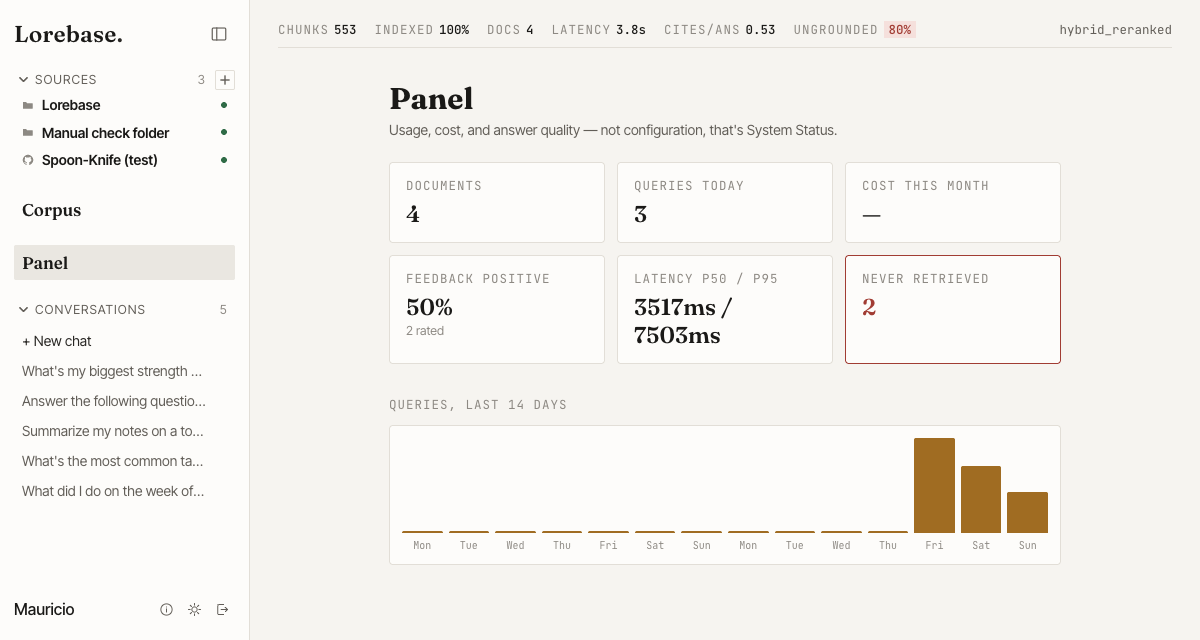
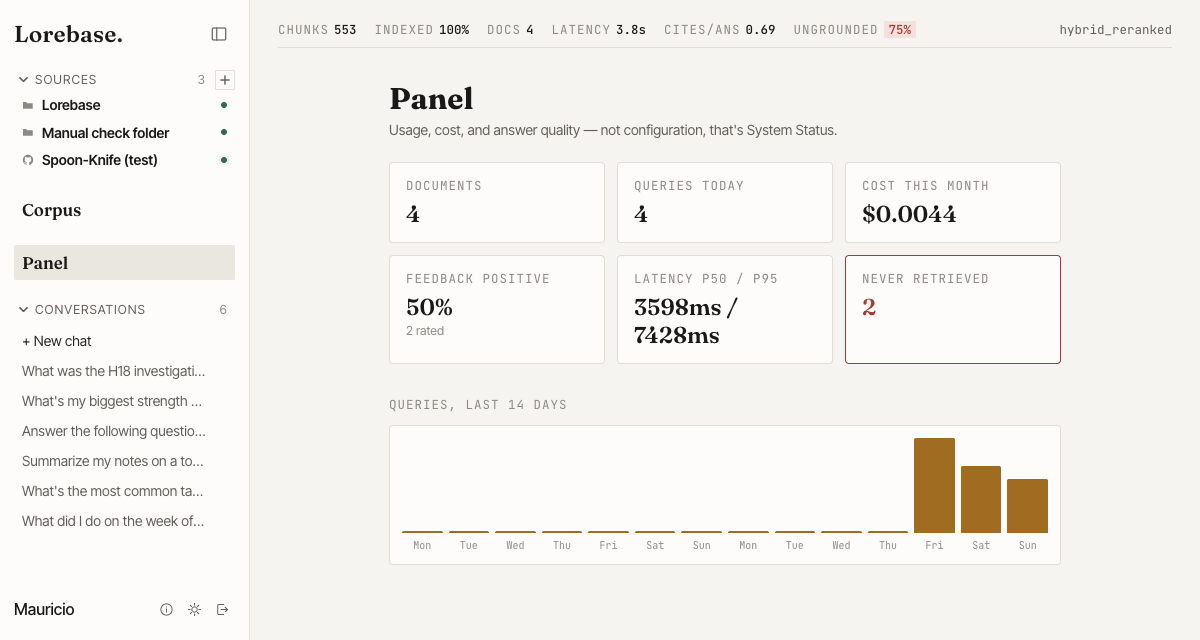
Fix in-flight answers disappearing and monthly cost rounding to $0.00

diff --git a/frontend/src/app/features/chat/chat.page.ts b/frontend/src/app/features/chat/chat.page.ts
@@ -85,6 +85,20 @@ export class ChatPage implements OnInit {
   // — invisible before there was a history list, obvious noise now.
   private conversationId: string | null = null;
 
+  // A send() keeps streaming in the background regardless of navigation
+  // (chatService.ask() isn't tied to an AbortSignal), but `messages` gets
+  // replaced wholesale by loadConversation()/resetToNewConversation() the
+  // moment the user looks elsewhere. Without this, appendDelta/
+  // finalizeAnswer keep updating a turn that no longer exists in the
+  // visible array -- the answer is computed and persisted, but silently
+  // never rendered, even on navigating back before the stream finished.
+  // loadConversation() re-attaches to this if its conversationId matches.
+  private inFlight: {
+    conversationId: string;
+    userMessage: ThreadMessage;
+    assistantMessage: ThreadMessage;
+  } | null = null;
+
   ngOnInit(): void {
     // Subscribed, not read once from `snapshot`. Angular reuses this
     // component when navigating between two /chat/:id routes, so
@@ -123,20 +137,25 @@ export class ChatPage implements OnInit {
     try {
       const messages = await this.conversationsService.listMessages(conversationId);
       this.conversationId = conversationId;
-      this.messages.set(
-        messages.map((message) => ({
-          id: message.id,
-          role: message.role as 'user' | 'assistant',
-          content: message.content,
-          citations: message.citations,
-          latencyMs: message.latency_ms,
-          cost: message.cost === null ? null : Number(message.cost),
-          retrievedCount: message.retrieved_count,
-          pending: false,
-          feedbackRating: message.feedback?.rating ?? null,
-          feedbackComment: message.feedback?.comment ?? '',
-        })),
-      );
+      const loaded: ThreadMessage[] = messages.map((message) => ({
+        id: message.id,
+        role: message.role as 'user' | 'assistant',
+        content: message.content,
+        citations: message.citations,
+        latencyMs: message.latency_ms,
+        cost: message.cost === null ? null : Number(message.cost),
+        retrievedCount: message.retrieved_count,
+        pending: false,
+        feedbackRating: message.feedback?.rating ?? null,
+        feedbackComment: message.feedback?.comment ?? '',
+      }));
+      // The stream that's still filling this in hasn't persisted anything
+      // yet (see the `inFlight` field's comment) -- the fetch above can
+      // only have found the turns that existed before it started.
+      if (this.inFlight?.conversationId === conversationId) {
+        loaded.push(this.inFlight.userMessage, this.inFlight.assistantMessage);
+      }
+      this.messages.set(loaded);
       // Jump, not smooth: this is the initial position of a conversation
       // being opened, not a movement the reader should watch.
       this.scrollToLatest('auto');
@@ -241,16 +260,25 @@ export class ChatPage implements OnInit {
 
     this.question = '';
     this.resetComposerHeight();
-    this.messages.update((current) => [
-      ...current,
-      { id: crypto.randomUUID(), role: 'user', content: question, citations: [], pending: false },
-    ]);
+    const userMessage: ThreadMessage = {
+      id: crypto.randomUUID(),
+      role: 'user',
+      content: question,
+      citations: [],
+      pending: false,
+    };
+    this.messages.update((current) => [...current, userMessage]);
 
     const assistantId = crypto.randomUUID();
-    this.messages.update((current) => [
-      ...current,
-      { id: assistantId, role: 'assistant', content: '', citations: [], pending: true },
-    ]);
+    const assistantMessage: ThreadMessage = {
+      id: assistantId,
+      role: 'assistant',
+      content: '',
+      citations: [],
+      pending: true,
+    };
+    this.messages.update((current) => [...current, assistantMessage]);
+    this.inFlight = { conversationId, userMessage, assistantMessage };
     this.sending.set(true);
     this.scrollToLatest();
 
@@ -270,6 +298,7 @@ export class ChatPage implements OnInit {
       this.appendDelta(assistantId, 'Something went wrong answering that.');
     } finally {
       this.sending.set(false);
+      this.inFlight = null;
     }
   }
 
@@ -298,6 +327,10 @@ export class ChatPage implements OnInit {
           : message,
       ),
     );
+    if (this.inFlight?.assistantMessage.id === assistantId) {
+      this.inFlight.assistantMessage.content += delta;
+      this.inFlight.assistantMessage.pending = false;
+    }
   }
 
   private finalizeAnswer(assistantId: string, event: ChatDoneEvent): void {
@@ -316,6 +349,13 @@ export class ChatPage implements OnInit {
           : message,
       ),
     );
+    // Cleared here rather than left to send()'s finally: the turn is
+    // complete and persisted server-side from this point on, so a
+    // loadConversation() racing right after this should trust its own
+    // fetch instead of appending a now-redundant copy of this message.
+    if (this.inFlight?.assistantMessage.id === assistantId) {
+      this.inFlight = null;
+    }
   }
 
   /** A citation's score drawn against the best score in the same answer.

diff --git a/frontend/src/app/features/chat/chat.page.spec.ts b/frontend/src/app/features/chat/chat.page.spec.ts
@@ -1,6 +1,6 @@
 import { TestBed } from '@angular/core/testing';
 import { ActivatedRoute, convertToParamMap, Router } from '@angular/router';
-import { of } from 'rxjs';
+import { BehaviorSubject, of } from 'rxjs';
 import { describe, expect, it, vi } from 'vitest';
 
 import { AuthService } from '../../core/auth/auth.service';
@@ -222,6 +222,101 @@ describe('ChatPage', () => {
     expect((fixture.nativeElement as HTMLElement).textContent).toContain(
       'Something went wrong answering that.',
     );
+    fixture.destroy();
+  });
+
+  it('restores the pending turn on navigating back before its answer arrives', async () => {
+    let releaseFirstDelta!: () => void;
+    const gate = new Promise<void>((resolve) => (releaseFirstDelta = resolve));
+
+    async function* controlledAsk(): AsyncGenerator<ChatEvent> {
+      await gate;
+      yield { delta: 'Hello' };
+      yield doneEvent();
+    }
+
+    // conv-1 is the one send() creates and streams into; conv-2 stands in
+    // for whatever else the user clicks on mid-stream. Re-fetching conv-1
+    // (the "navigate back") returns only the question -- the answer
+    // hasn't been persisted yet, same as the real backend mid-stream.
+    const paramMap = new BehaviorSubject(convertToParamMap({}));
+    const listMessages = vi.fn().mockImplementation((conversationId: string) => {
+      if (conversationId === 'conv-1') {
+        return Promise.resolve([
+          {
+            id: 'q1',
+            conversation: 'conv-1',
+            role: 'user',
+            content: 'question',
+            citations: [],
+            feedback: null,
+            created_at: '2026-01-01T00:00:00Z',
+          },
+        ]);
+      }
+      return Promise.resolve([]);
+    });
+
+    await TestBed.configureTestingModule({
+      imports: [ChatPage],
+      providers: [
+        {
+          provide: AuthService,
+          useValue: { primaryWorkspace: () => ({ id: 'ws-1', name: 'Workspace' }) },
+        },
+        {
+          provide: ConversationsService,
+          useValue: {
+            create: vi.fn().mockResolvedValue({ id: 'conv-1' }),
+            listMessages,
+            refresh: vi.fn().mockResolvedValue(undefined),
+          },
+        },
+        { provide: ChatService, useValue: { ask: () => controlledAsk() } },
+        { provide: ActivatedRoute, useValue: { paramMap } },
+        { provide: Router, useValue: { navigate: vi.fn().mockResolvedValue(true) } },
+      ],
+    }).compileComponents();
+
+    const fixture = TestBed.createComponent(ChatPage);
+    fixture.detectChanges();
+    await fixture.whenStable();
+
+    const page = fixture.componentInstance;
+    page['question'] = 'question';
+    const sendPromise = page['send']();
+    const el = fixture.nativeElement as HTMLElement;
+
+    // Wait for the placeholder turn to land, same polling reasoning as
+    // the typing-indicator test above.
+    let indicatorShown = false;
+    for (let i = 0; i < 10 && !indicatorShown; i++) {
+      await Promise.resolve();
+      fixture.detectChanges();
+      indicatorShown = el.querySelector('.typing-indicator') !== null;
+    }
+    expect(indicatorShown).toBeTruthy();
+
+    // Navigate away before the stream has produced anything.
+    paramMap.next(convertToParamMap({ conversationId: 'conv-2' }));
+    await fixture.whenStable();
+    fixture.detectChanges();
+    expect(el.querySelector('.typing-indicator')).toBeFalsy();
+
+    // Navigate back to the conversation the still-running send() belongs
+    // to. Its answer isn't in listMessages's response, but the pending
+    // turn should reappear anyway.
+    paramMap.next(convertToParamMap({ conversationId: 'conv-1' }));
+    await fixture.whenStable();
+    fixture.detectChanges();
+    expect(el.querySelector('.typing-indicator')).toBeTruthy();
+
+    // Once the stream actually finishes, the answer renders normally.
+    releaseFirstDelta();
+    await sendPromise;
+    fixture.detectChanges();
+    expect(el.querySelector('.typing-indicator')).toBeFalsy();
+    expect(el.textContent).toContain('Hello');
     fixture.destroy();
   });
 });

diff --git a/frontend/src/app/features/panel/panel.page.ts b/frontend/src/app/features/panel/panel.page.ts
@@ -44,8 +44,12 @@ export class PanelPage implements OnInit {
     return new Date(isoDate).toLocaleDateString('en-US', { weekday: 'short' });
   }
 
+  // Four decimals, not two: at light usage a month's total is still
+  // fractions of a cent, and toFixed(2) prints a misleading "$0.00" for
+  // any real, nonzero cost below half a cent (same reasoning as the
+  // per-answer cost in chat.page.ts).
   protected formatCost(usd: number | null): string {
-    return usd === null ? '—' : `$${usd.toFixed(2)}`;
+    return usd === null ? '—' : `$${usd.toFixed(4)}`;
   }
 
   protected formatPercent(value: number | null): string {

diff --git a/README.md b/README.md
@@ -208,9 +208,7 @@ lorebase/
 │       └── features/  * pages: chat, corpus, panel, login, shell
 │
 ├── infra/             * docker-compose.yml / .prod.yml, .env.example, backup/restore scripts
-│
 ├── docs/              * roadmap.md, ADRs, MCP setup, screenshots
-│
 ├── LICENSE            * MIT License
 └── README.md          * This file
 ```
